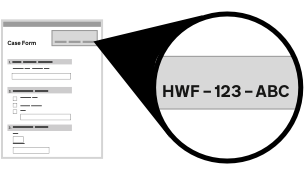
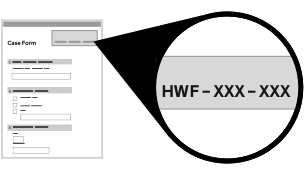
Automated commit at 2016-05-24 09:09:38 UTC by middleman-deploy 1.0.0

diff --git a/public/confirmation-send.html b/public/confirmation-send.html
@@ -1,3 +1,3 @@
-<!DOCTYPE html><html><head><meta charset="utf-8" /><title>Apply for help with fees</title><meta content="width=device-width" name="viewport" /><link href="../assets/stylesheets/styles.css" rel="stylesheet" /><link href="../assets/stylesheets/r2_calculator.css" rel="stylesheet" /><link href="../assets/stylesheets/r1calc.css" rel="stylesheet" /><script src="../assets/javascripts/jquery.min.js"></script></head><body><div class="contain-to-grid"><nav class="top-bar" data-topbar=""><div class="row"><div class="small-12 columns"><span class="title-area"><span class="name"><h1><a href="../">GOV.UK</a></h1></span></span></div></div><div class="row"><div class="small-12 columns" style="margin-top:15px;"><span class="alpha-tag">ALPHA</span> &nbsp; Tell us what you <a href="feedback.html">think and help us improve</a> <hr /></div></div></nav></div><div class="row"><div class="large-12 columns"><form><div class="row"><div class="small-12 medium-8 columns show-form-number"><span class="hint">Step 20 of 20</span><br /><br /><h4>Send <span class="form-number">the court or tribunal form</span> to complete the process</h4><br /><p style="display: table"><span style="display: table-cell; width: 145px"><img align="left" src="../assets/images/icon-post.png" /></span><span style="display: table-cell; vertical-align: middle; padding-left: 20px;">Deliver your paperwork to the court or tribunal dealing with your case. You can do this by post or in person.</span></p><br /><div class="panel"><h4 class="bold">What happens next?</h4><br /><ol><li>Your application will be assessed by court or tribunal staff. This usually takes no longer than 21 days.</li><br /><li>You'll hear from the court or tribunal if your application is unsuccessful or if they need more information from you.</li><br /><li>If your application is successful you'll hear directly from the court or tribunal dealing with your case.</li></ol></div></div></div><br /><div class="row"><div class="small-12 columns"><a href="#">Print this page</a></div></div><br /><div class="row"><div class="small-12 medium-7 large-6 columns"><a href="start.html" id="next-url"><div class="success">Start a new application</div></a></div></div><br /><br /></form><script>$(document).ready( function() {
+<!DOCTYPE html><html><head><meta charset="utf-8" /><title>Apply for help with fees</title><meta content="width=device-width" name="viewport" /><link href="../assets/stylesheets/styles.css" rel="stylesheet" /><link href="../assets/stylesheets/r2_calculator.css" rel="stylesheet" /><link href="../assets/stylesheets/r1calc.css" rel="stylesheet" /><script src="../assets/javascripts/jquery.min.js"></script></head><body><div class="contain-to-grid"><nav class="top-bar" data-topbar=""><div class="row"><div class="small-12 columns"><span class="title-area"><span class="name"><h1><a href="../">GOV.UK</a></h1></span></span></div></div><div class="row"><div class="small-12 columns" style="margin-top:15px;"><span class="alpha-tag">ALPHA</span> &nbsp; Tell us what you <a href="feedback.html">think and help us improve</a> <hr /></div></div></nav></div><div class="row"><div class="large-12 columns"><form><div class="row"><div class="small-12 medium-8 columns show-form-number"><span class="hint">Step 20 of 20</span><br /><br /><h4>Send <span class="form-number">the court or tribunal form</span> with your HWF-XXX-XXX reference on it to complete the process</h4><br /><p style="display: table"><span style="display: table-cell; width: 145px"><img align="left" src="../assets/images/icon-post.png" /></span><span style="display: table-cell; vertical-align: middle; padding-left: 20px;">Deliver your paperwork to the court or tribunal dealing with your case. You can do this by post or in person.</span></p><br /><div class="panel"><h4 class="bold">What happens next?</h4><br /><ol><li>Your application will be assessed by court or tribunal staff. This usually takes no longer than 21 days.</li><br /><li>You'll hear from the court or tribunal if your application is unsuccessful or if they need more information from you.</li><br /><li>If your application is successful you'll hear directly from the court or tribunal dealing with your case.</li></ol></div></div></div><br /><div class="row"><div class="small-12 columns"><a href="#">Save or print this page</a></div></div><br /><div class="row"><div class="small-12 medium-7 large-6 columns"><a href="start.html" id="next-url"><div class="success">Start a new application</div></a></div></div><br /><br /></form><script>$(document).ready( function() {
   formNumberModule.init();
 });</script></div><script src="../assets/javascripts/libs.js"></script><script src="../assets/javascripts/numeral.min.js"></script><script src="../assets/javascripts/app.js"></script><script src="../assets/javascripts/details.polyfill.js"></script><script src="../assets/javascripts/income_sources.js"></script><script src="../assets/javascripts/income_threshold.js"></script><script src="../assets/javascripts/income_detail.js"></script><script src="../assets/javascripts/income_input.js"></script><script src="../assets/javascripts/income_summary.js"></script><script src="../assets/javascripts/form_number.js"></script><script src="../assets/javascripts/income_sources.js"></script><script src="../assets/javascripts/income_input.js"></script><script src="../assets/javascripts/income_summary.js"></script><script src="../assets/javascripts/form_number.js"></script></div></body></html>

diff --git a/public/confirmation-paper.html b/public/confirmation-paper.html
@@ -1,3 +1,3 @@
-<!DOCTYPE html><html><head><meta charset="utf-8" /><title>Apply for help with fees</title><meta content="width=device-width" name="viewport" /><link href="../assets/stylesheets/styles.css" rel="stylesheet" /><link href="../assets/stylesheets/r2_calculator.css" rel="stylesheet" /><link href="../assets/stylesheets/r1calc.css" rel="stylesheet" /><script src="../assets/javascripts/jquery.min.js"></script></head><body><div class="contain-to-grid"><nav class="top-bar" data-topbar=""><div class="row"><div class="small-12 columns"><span class="title-area"><span class="name"><h1><a href="../">GOV.UK</a></h1></span></span></div></div><div class="row"><div class="small-12 columns" style="margin-top:15px;"><span class="alpha-tag">ALPHA</span> &nbsp; Tell us what you <a href="feedback.html">think and help us improve</a> <hr /></div></div></nav></div><div class="row"><div class="large-12 columns"><form><div class="row"><div class="small-12 medium-10 columns show-form-number"><span class="hint">Step 19 of 20</span><br /><br /><h4>Your application for help with fees is not finished yet</h4><br /><ul><li>you must write this reference number <strong>HWF-123-078</strong> on <span class="form-number">the court or tribunal form for which you need help with the fee</span></li></ul><br /><div class="large"></div><img src="../assets/images/icon-hwf-paper-form.png">&nbsp; &nbsp;</img><br><li>write the reference number in the ‘HWF reference’ field if there is one. If not, you should write it wherever there is space on the court or tribunal form</li><br /><li>you can also print this page and attach it to your court or tribunal form</li></br></div></div><div class="row"><div class="small-12 columns"><a href="#">Print this page</a></div></div><br /><br /><div class="row"><div class="small-12 medium-7 large-6 columns"><a href="confirmation-send.html" id="next-url"><div class="button success">Continue</div></a></div></div></form><script>$(document).ready( function() {
+<!DOCTYPE html><html><head><meta charset="utf-8" /><title>Apply for help with fees</title><meta content="width=device-width" name="viewport" /><link href="../assets/stylesheets/styles.css" rel="stylesheet" /><link href="../assets/stylesheets/r2_calculator.css" rel="stylesheet" /><link href="../assets/stylesheets/r1calc.css" rel="stylesheet" /><script src="../assets/javascripts/jquery.min.js"></script></head><body><div class="contain-to-grid"><nav class="top-bar" data-topbar=""><div class="row"><div class="small-12 columns"><span class="title-area"><span class="name"><h1><a href="../">GOV.UK</a></h1></span></span></div></div><div class="row"><div class="small-12 columns" style="margin-top:15px;"><span class="alpha-tag">ALPHA</span> &nbsp; Tell us what you <a href="feedback.html">think and help us improve</a> <hr /></div></div></nav></div><div class="row"><div class="large-12 columns"><form><div class="row"><div class="small-12 medium-10 columns show-form-number"><span class="hint">Step 19 of 20</span><br /><br /><div class="panel"><h3>Your application for help with fees is not finished yet</h3><br /><ol><li>You must write this reference number <strong>HWF-123-078</strong> on <span class="form-number">the court or tribunal form for which you need help with the fee</span></li><br /><div class="large"></div><img src="../assets/images/icon-hwf-paper-form.png">&nbsp; &nbsp;</img><br /><br /><li>Write the reference number in the ‘HWF reference’ field if there is one. If not, you should write it wherever there is space on the court or tribunal form</li><br /><li>You can also save or print this page and attach it to your court or tribunal form</li></ol></div><br /><div class="row"><div class="small-12 columns"><a href="#">Save or print this page</a></div></div><br /><br /></div></div><div class="row"><div class="small-12 medium-7 large-6 columns"><a href="confirmation-send.html" id="next-url"><div class="button success">Continue</div></a></div></div></form><script>$(document).ready( function() {
   formNumberModule.init();
 });</script></div><script src="../assets/javascripts/libs.js"></script><script src="../assets/javascripts/numeral.min.js"></script><script src="../assets/javascripts/app.js"></script><script src="../assets/javascripts/details.polyfill.js"></script><script src="../assets/javascripts/income_sources.js"></script><script src="../assets/javascripts/income_threshold.js"></script><script src="../assets/javascripts/income_detail.js"></script><script src="../assets/javascripts/income_input.js"></script><script src="../assets/javascripts/income_summary.js"></script><script src="../assets/javascripts/form_number.js"></script><script src="../assets/javascripts/income_sources.js"></script><script src="../assets/javascripts/income_input.js"></script><script src="../assets/javascripts/income_summary.js"></script><script src="../assets/javascripts/form_number.js"></script></div></body></html>
